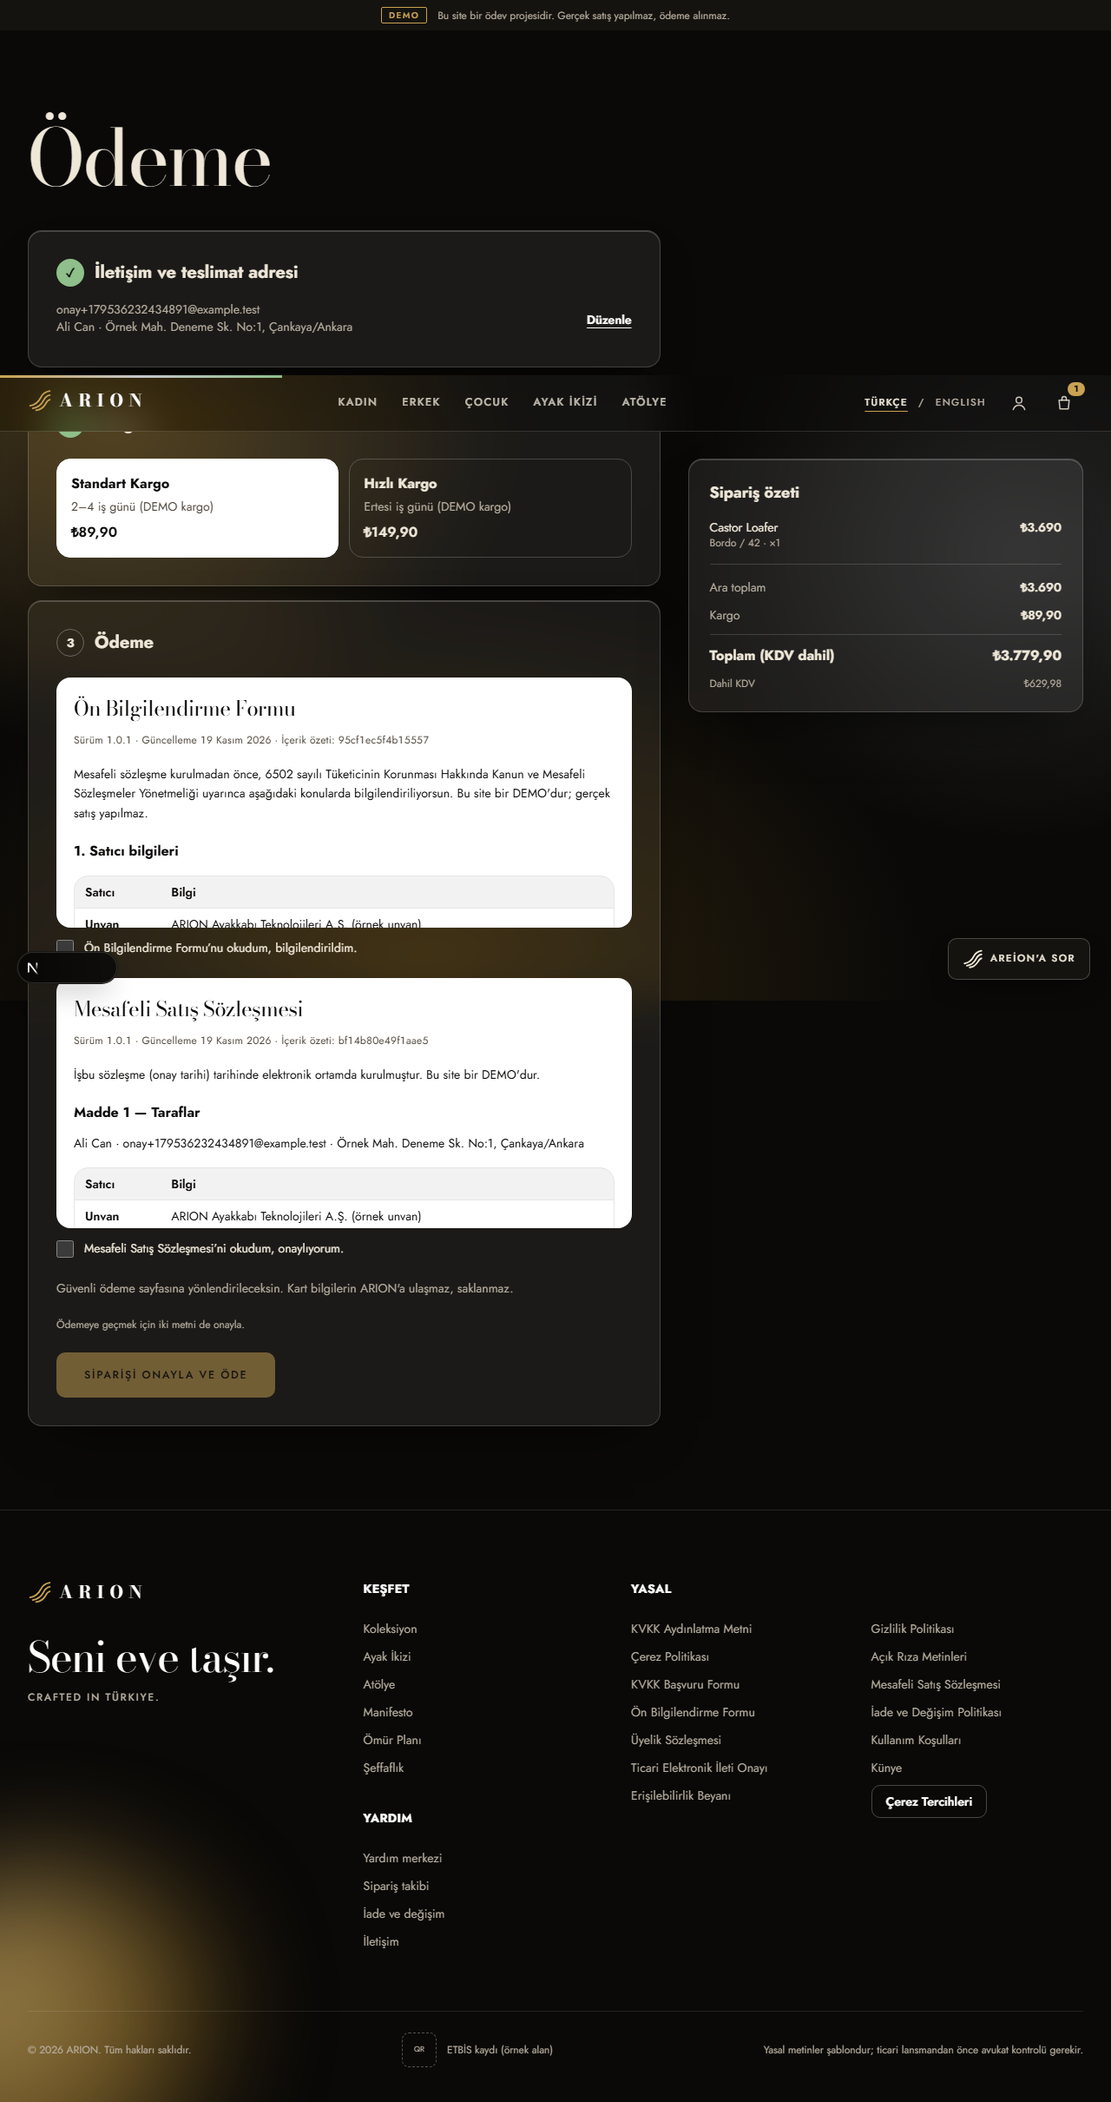
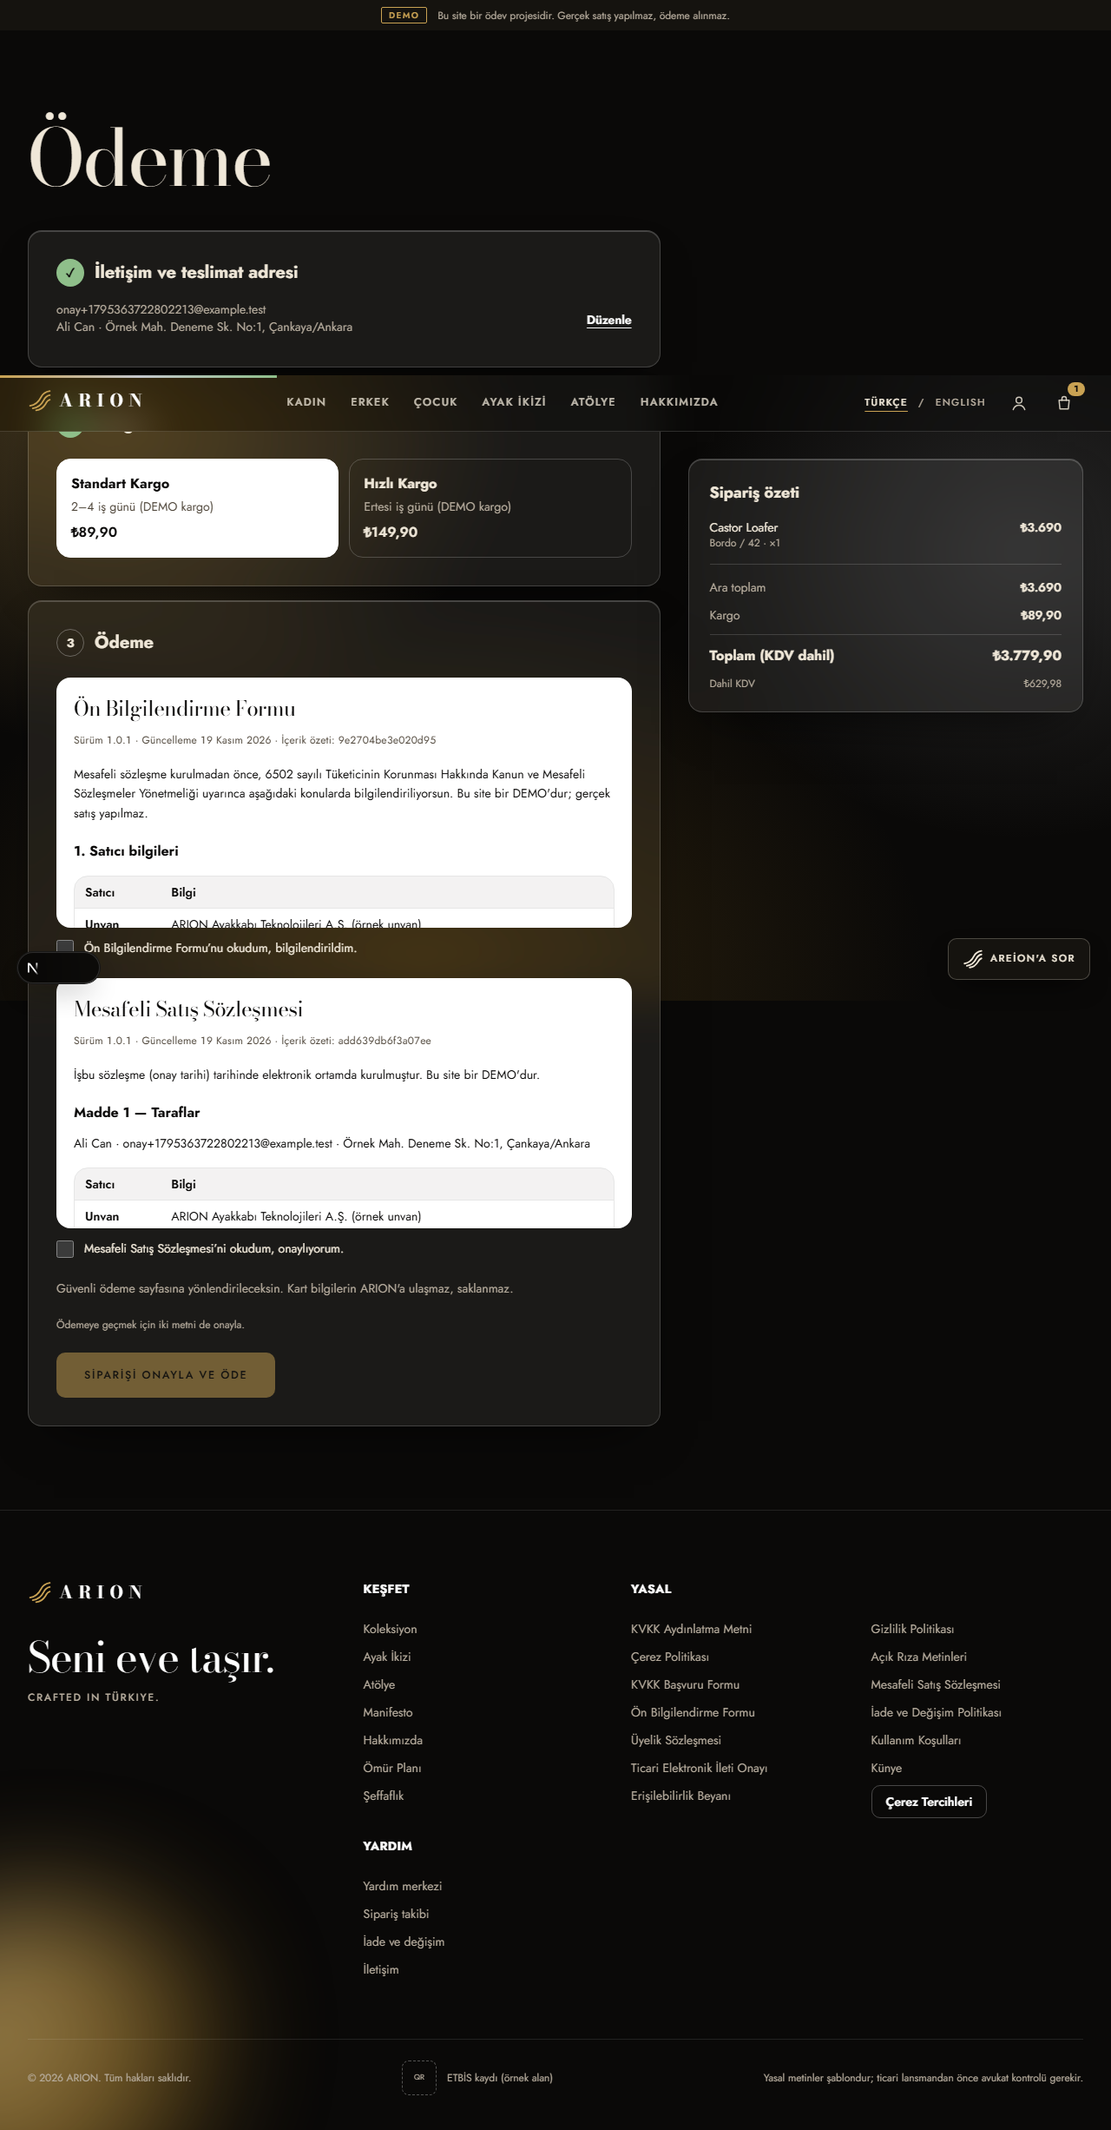
Hakkımızda sayfası: hikâye, değerler ve proje ekibi (DECISIONS #090)

diff --git a/apps/storefront/src/app/[locale]/hakkimizda/page.tsx b/apps/storefront/src/app/[locale]/hakkimizda/page.tsx
@@ -1,0 +1,138 @@
+import type { Metadata } from "next"
+import Image from "next/image"
+import { hasLocale } from "next-intl"
+import { getTranslations, setRequestLocale } from "next-intl/server"
+import { notFound } from "next/navigation"
+import { buttonClass } from "@/components/ui/button"
+import { Link } from "@/i18n/navigation"
+import { routing } from "@/i18n/routing"
+import { localizedAlternates } from "@/lib/metadata"
+
+const VALUES = ["fit", "repair", "honest"] as const
+const TEAM = [
+  { key: "enes", initials: "EA" },
+  { key: "kadir", initials: "KK" },
+] as const
+
+export async function generateMetadata({ params }: PageProps<"/[locale]/hakkimizda">): Promise<Metadata> {
+  const { locale } = await params
+  if (!hasLocale(routing.locales, locale)) return {}
+  const t = await getTranslations({ locale, namespace: "about" })
+  return { title: t("title"), description: t("lead"), alternates: localizedAlternates("/hakkimizda", locale) }
+}
+
+/** Hakkımızda (DECISIONS #090): ARION'un hikâyesi, değerleri ve proje ekibi. */
+export default async function AboutPage({ params }: PageProps<"/[locale]/hakkimizda">) {
+  const { locale } = await params
+  if (!hasLocale(routing.locales, locale)) notFound()
+  setRequestLocale(locale)
+  const t = await getTranslations("about")
+
+  return (
+    <article>
+      {/* Giriş */}
+      <header className="mx-auto max-w-[1440px] px-4 pt-20 pb-16 sm:px-8 md:pt-28">
+        <p className="eyebrow text-ember">{t("eyebrow")}</p>
+        <h1 className="condensed mt-4 max-w-4xl text-display">{t.rich("title_rich", { em: (c) => <em>{c}</em> })}</h1>
+        <p className="mt-8 max-w-2xl text-lg leading-relaxed text-smoke md:text-xl">{t("lead")}</p>
+      </header>
+
+      {/* Hikâye: görsel + metin */}
+      <section aria-labelledby="hikaye" className="border-y border-chalk/10">
+        <div className="mx-auto grid max-w-[1440px] items-center gap-10 px-4 py-20 sm:px-8 lg:grid-cols-[1fr_1.1fr] lg:gap-16">
+          <div className="relative aspect-[4/5] overflow-hidden rounded-[4px] bg-void">
+            <Image
+              src="/editorial/craft-dikis.webp"
+              alt={t("storyImageAlt")}
+              fill
+              sizes="(min-width: 1024px) 45vw, 92vw"
+              className="object-cover"
+            />
+          </div>
+          <div>
+            <p className="eyebrow text-ember">{t("story.eyebrow")}</p>
+            <h2 id="hikaye" className="condensed mt-3 text-headline">
+              {t.rich("story.title", { em: (c) => <em>{c}</em> })}
+            </h2>
+            <div className="mt-6 space-y-5 text-lg leading-relaxed text-smoke">
+              <p>{t("story.p1")}</p>
+              <p>{t("story.p2")}</p>
+              <p>{t("story.p3")}</p>
+            </div>
+          </div>
+        </div>
+      </section>
+
+      {/* Değerler */}
+      <section aria-labelledby="degerler" className="mx-auto max-w-[1440px] px-4 py-20 sm:px-8">
+        <p className="eyebrow text-ember">{t("values.eyebrow")}</p>
+        <h2 id="degerler" className="condensed mt-3 text-headline">
+          {t("values.title")}
+        </h2>
+        <ol className="mt-10 border-t border-chalk/15">
+          {VALUES.map((v, i) => (
+            <li key={v} className="grid gap-2 border-b border-chalk/15 py-6 md:grid-cols-[4rem_1fr_1.4fr] md:gap-8">
+              <span aria-hidden="true" className="condensed text-2xl text-ember">
+                0{i + 1}
+              </span>
+              <h3 className="font-display text-2xl italic">{t(`values.items.${v}.title`)}</h3>
+              <p className="leading-relaxed text-smoke md:pt-1">{t(`values.items.${v}.body`)}</p>
+            </li>
+          ))}
+        </ol>
+      </section>
+
+      {/* Ekip */}
+      <section aria-labelledby="ekip" className="bg-carbon">
+        <div className="mx-auto max-w-[1440px] px-4 py-20 sm:px-8 md:py-28">
+          <p className="eyebrow text-ember">{t("team.eyebrow")}</p>
+          <h2 id="ekip" className="condensed mt-3 text-headline">
+            {t.rich("team.title", { em: (c) => <em>{c}</em> })}
+          </h2>
+          <p className="mt-4 max-w-2xl leading-relaxed text-smoke">{t("team.lead")}</p>
+          <ul className="mt-12 grid gap-5 md:grid-cols-2">
+            {TEAM.map((m) => (
+              <li key={m.key} className="glass flex flex-col gap-6 rounded-[4px] p-6 sm:flex-row sm:items-center sm:p-8" data-testid={`team-${m.key}`}>
+                <span
+                  aria-hidden="true"
+                  className="grid size-24 shrink-0 place-items-center rounded-full border border-ember/60 font-display text-4xl text-ember italic"
+                >
+                  {m.initials}
+                </span>
+                <div>
+                  <p className="eyebrow text-ember">{t(`team.members.${m.key}.role`)}</p>
+                  <h3 className="mt-2 font-display text-3xl">{t(`team.members.${m.key}.name`)}</h3>
+                  <dl className="mt-3 space-y-1 text-sm text-smoke">
+                    <div className="flex flex-wrap gap-x-2">
+                      <dt className="sr-only">{t("team.departmentLabel")}</dt>
+                      <dd>{t(`team.members.${m.key}.department`)}</dd>
+                    </div>
+                    <div className="flex flex-wrap gap-x-2">
+                      <dt className="sr-only">{t("team.schoolLabel")}</dt>
+                      <dd>{t(`team.members.${m.key}.school`)}</dd>
+                    </div>
+                  </dl>
+                  <p className="mt-4 leading-relaxed text-chalk/85">{t(`team.members.${m.key}.bio`)}</p>
+                </div>
+              </li>
+            ))}
+          </ul>
+        </div>
+      </section>
+
+      {/* Kapanış */}
+      <section className="mx-auto max-w-[1440px] px-4 py-20 sm:px-8">
+        <p className="max-w-3xl font-display text-2xl leading-snug italic md:text-3xl">{t("closing.quote")}</p>
+        <p className="mt-6 max-w-2xl text-sm leading-relaxed text-smoke">{t("closing.note")}</p>
+        <div className="mt-8 flex flex-wrap gap-3">
+          <Link href="/koleksiyon" className={buttonClass({ size: "lg" })}>
+            {t("closing.ctaCollection")}
+          </Link>
+          <Link href="/manifesto" className={buttonClass({ variant: "glass", size: "lg" })}>
+            {t("closing.ctaManifesto")}
+          </Link>
+        </div>
+      </section>
+    </article>
+  )
+}

diff --git a/e2e/tests/faz1-brand-i18n.spec.ts b/e2e/tests/faz1-brand-i18n.spec.ts
@@ -207,3 +207,27 @@ test("site cam görünümüyle açılır, görünüm anahtarı yok", async ({ pa
   await expect(page.locator("html")).toHaveAttribute("data-skin", "glass")
   await expect(page.getByTestId("skin-switch")).toHaveCount(0)
 })
+
+// Hakkımızda (DECISIONS #090): ekip ve bölümleri
+test("Hakkımızda sayfası ekibi gösterir; menüden ve İngilizce adresten açılır", async ({
+  page,
+}) => {
+  await page.goto("/tr/hakkimizda")
+  await expect(page.getByRole("heading", { level: 1 })).toHaveText(
+    "Bir ödevden doğan efsane.",
+  )
+  await expect(page.getByTestId("team-enes")).toContainText("Enes Atalay")
+  await expect(page.getByTestId("team-enes")).toContainText(
+    "Uluslararası Ticaret ve Lojistik, 3. sınıf",
+  )
+  await expect(page.getByTestId("team-kadir")).toContainText("Kadir Kara")
+  await expect(page.getByTestId("team-kadir")).toContainText("Teknik destek")
+  await expect(page.getByTestId("team-kadir")).toContainText(
+    "Endüstri Mühendisliği, 4. sınıf",
+  )
+  await expect(
+    page.getByRole("contentinfo").getByRole("link", { name: "Hakkımızda" }),
+  ).toHaveAttribute("href", "/tr/hakkimizda")
+  await page.goto("/en/about")
+  await expect(page.getByTestId("team-enes")).toContainText("Project owner")
+})

diff --git a/apps/storefront/src/components/layout/main-nav.tsx b/apps/storefront/src/components/layout/main-nav.tsx
@@ -10,13 +10,14 @@ import { cn } from "@/lib/utils"
 import { LanguageSwitcher } from "./language-switcher"
 
 // Kadın (yalnızca topuklu) · Erkek (Salon) · Çocuk ayrı dünyalar (DECISIONS #070)
-type Item = { key: "women" | "men" | "kids" | "fitTwin" | "atelier"; href: AppPathname; kategori?: string }
+type Item = { key: "women" | "men" | "kids" | "fitTwin" | "atelier" | "about"; href: AppPathname; kategori?: string }
 const ITEMS: ReadonlyArray<Item> = [
   { key: "women", href: "/koleksiyon/[kategori]", kategori: "topuklu" },
   { key: "men", href: "/koleksiyon/[kategori]", kategori: "erkek" },
   { key: "kids", href: "/koleksiyon/[kategori]", kategori: "cocuk" },
   { key: "fitTwin", href: "/ayak-ikizi" },
   { key: "atelier", href: "/atolye" },
+  { key: "about", href: "/hakkimizda" },
 ]
 
 /** Masaüstü mega menü içeriği (DECISIONS #083): kategoriler + öne çıkan ürünler */

diff --git a/apps/storefront/src/i18n/routing.ts b/apps/storefront/src/i18n/routing.ts
@@ -29,6 +29,7 @@ const PATHNAMES = {
     "/yardim/iade": { tr: "/yardim/iade", en: "/help/returns" },
     "/yardim/talep": { tr: "/yardim/talep", en: "/help/request" },
     "/iletisim": { tr: "/iletisim", en: "/contact" },
+  "/hakkimizda": { tr: "/hakkimizda", en: "/about" },
     // Yasal sayfalar: her slug iki dilde de çevrilir (DECISIONS #020 kapandı)
     "/yasal/kvkk-aydinlatma": { tr: "/yasal/kvkk-aydinlatma", en: "/legal/privacy-notice" },
     "/yasal/gizlilik": { tr: "/yasal/gizlilik", en: "/legal/privacy-policy" },

diff --git a/apps/storefront/src/components/layout/site-footer.tsx b/apps/storefront/src/components/layout/site-footer.tsx
@@ -52,6 +52,11 @@ export async function SiteFooter() {
                 </Link>
               </li>
               <li>
+                <Link href="/hakkimizda" className={linkClass}>
+                  {t("nav.about")}
+                </Link>
+              </li>
+              <li>
                 <Link href="/omur-plani" className={linkClass}>
                   {t("nav2.lifetime")}
                 </Link>

diff --git a/e2e/tests/a11y.spec.ts b/e2e/tests/a11y.spec.ts
@@ -6,6 +6,8 @@ const PAGES = [
   "/tr",
   "/en",
   "/tr/manifesto",
+  "/tr/hakkimizda",
+  "/en/about",
   "/en/manifesto",
   "/tr/ayak-ikizi",
   "/tr/yasal/kvkk-aydinlatma",

diff --git a/docs/DECISIONS.md b/docs/DECISIONS.md
@@ -93,3 +93,4 @@ Rapordan sapmalar, sürüm farkları ve mimari kararlar burada tarihli olarak tu
 | 087 | 2026-11-22 | Areion gösterim amaçlı; site GitHub Pages'te backend'siz statik yayın                        | Kullanıcı: "Areion'daki API'yi kaldır, göstermelik dursun" ve "GitHub üzerinden yayına al, yalnızca frontend olsun". (1) Areion: Gemini uç noktası (`/api/areion`), `lib/ai`, yurt dışı aktarım rıza adımı ve çerezi, `ai` ve `@ai-sdk/google` paketleri kaldırıldı. Sohbet anahtar kelimeyle konu seçen hazır yanıtlar verir (sağlık → tavsiye yok, hekime yönlendirme; numara, iade, kargo, tamir, kadın/erkek/çocuk ürünleri) ve ilgili sayfaya bağlantı ekler; hiçbir mesaj dışarı gönderilmez. Temsilciye aktarım backend'li sürümde gerçek talep açar, statik sürümde demo bilet numarası gösterir. (2) Yayın: kullanıcı GitHub Pages ve herkese açık depo seçti; depo `xavion16.github.io` (kök alan adı, basePath yok). Normal (backend'li) uygulama ve testler değişmez; statik sürüm `scripts/static-export.mjs` ile ayrı derlenir: yalnızca üretilen `*.static.tsx` sarmalayıcıları sayfa sayılır (`pageExtensions`), sayfalar `force-static`; sunucu işlemleri `turbopack.resolveAlias` ile `lib/static/actions/*` tarayıcı sürümlerine yönlenir; backend yanıtları `snapshot/`'a bir kez kaydedilir (`--record`) ve derlemede tekrar oynatılır (`lib/medusa/client.ts` fetch sarmalayıcısı). Sepet tarayıcıda (localStorage) tutulur, sepet sayfası derlemedeki katalogla çizilir, ödeme "Siparişi tamamla (demo)" onayıyla biter; çerez tercihi tarayıcıda saklanır; koleksiyon numara/genişlik filtresi tarayıcıda uygulanır; giriş/kayıt "üyelik gösterim amaçlıdır" uyarısı verir. Dil yolu çevirisi sunucu gerektirdiği için statik sürümde EN sayfalar TR yol adlarını kullanır (`/en/urun/…`). Yayına girmeyen: hesap paneli, ödeme, sipariş, API uçları. Next 16 statik export ön yükleme parçalarını klasöre yazıp noktalı adla istediğinden derleme sonrası düz adlı kopyalar üretilir. GitHub Actions (`.github/workflows/pages.yml`) yalnızca storefront'u kurar, `@arion/legal-texts`'i derler ve `out/`'u yayınlar. | Faz 4'teki Areion AI kararlarının yerini alır.                                                                                                                                                                                                                      |
 | 088 | 2026-11-22 | Cam görünümü kalıcı, deneme anahtarı kaldırıldı                                              | Kullanıcı: "siteyi cam olarak tasarla, oradaki seçeneği kaldır". #079'daki deneme cam görünümü varsayılan oldu: layout `<html data-skin="glass">` ile her zaman açar; `skin-glass.css` korunur (açılış bölümü yine cam pano almaz). "Altın / Cam" anahtarı (`components/dev/skin-switch.tsx`), mesajlardaki `skin` anahtarı ve sepet çubuğu ile ilgili kaydırma kuralı kaldırıldı. Erişilebilirlik testleri (axe, kontrast dahil) cam görünümle geçer.                                                                                                                                                                                                                                                                                                                                                                                                                                                                                                                                                                                                                                                                                                                                                                                                                                                                                                                                                                                                                                                                                                                                                                                                                                                                                                                                                                                                                                                                                         | #079'u kalıcılaştırır.                                                                                                                                                                                                                                              |
 | 089 | 2026-11-22 | Manifesto sesli alıntısı sayfanın kendi dilinde                                              | Kullanıcı: Türkçe sayfada İngilizce, İngilizce sayfada Türkçe konuşuyor. Alıntı bilerek "diğer dilde" gösteriliyordu (`otherLang`); artık metin (`manifesto.quote`) ve seslendirme (`/audio/manifesto-quote-{locale}.mp3`) sayfanın dilinde. Mesajlardaki iki alıntı yer değiştirdi.                                                                                                                                                                                                                                                                                                                                                                                                                                                                                                                                                                                                                                                                                                                                                                                                                                                                                                                                                                                                                                                                                                                                                                                                                                                                                                                                                                                                                                                                                                                                                                                                                                                           | —                                                                                                                                                                                                                                                                   |
+| 090 | 2026-11-22 | Hakkımızda sayfası                                                                           | Kullanıcı Hakkımızda bölümü istedi: Enes Atalay — Uluslararası Ticaret ve Lojistik (UTL) 3. sınıf, proje sahibi; Kadir Kara — Endüstri Mühendisliği 4. sınıf, teknik destek; ikisi de Sivas Cumhuriyet Üniversitesi (SCÜ). Kısaltmalar bu şekilde açıldı (kullanıcı teyidi bekleniyor). `/tr/hakkimizda` ↔ `/en/about`: giriş, atölye görselli hikâye (Arion efsanesi ve mitolojik ürün adları), çizgili üç değer, iki cam ekip kartı (fotoğraf yerine Bodoni monogram), ödev notu ve CTA. Üst menüye ve alt bilgiye bağlantı eklendi; statik yayına dahil; a11y ve içerik testleri eklendi.                                                                                                                                                                                                                                                                                                                                                                                                                                                                                                                                                                                                                                                                                                                                                                                                                                                                                                                                                                                                                                                                                                                                                                                                                                                                                                                                                   | —                                                                                                                                                                                                                                                                   |
